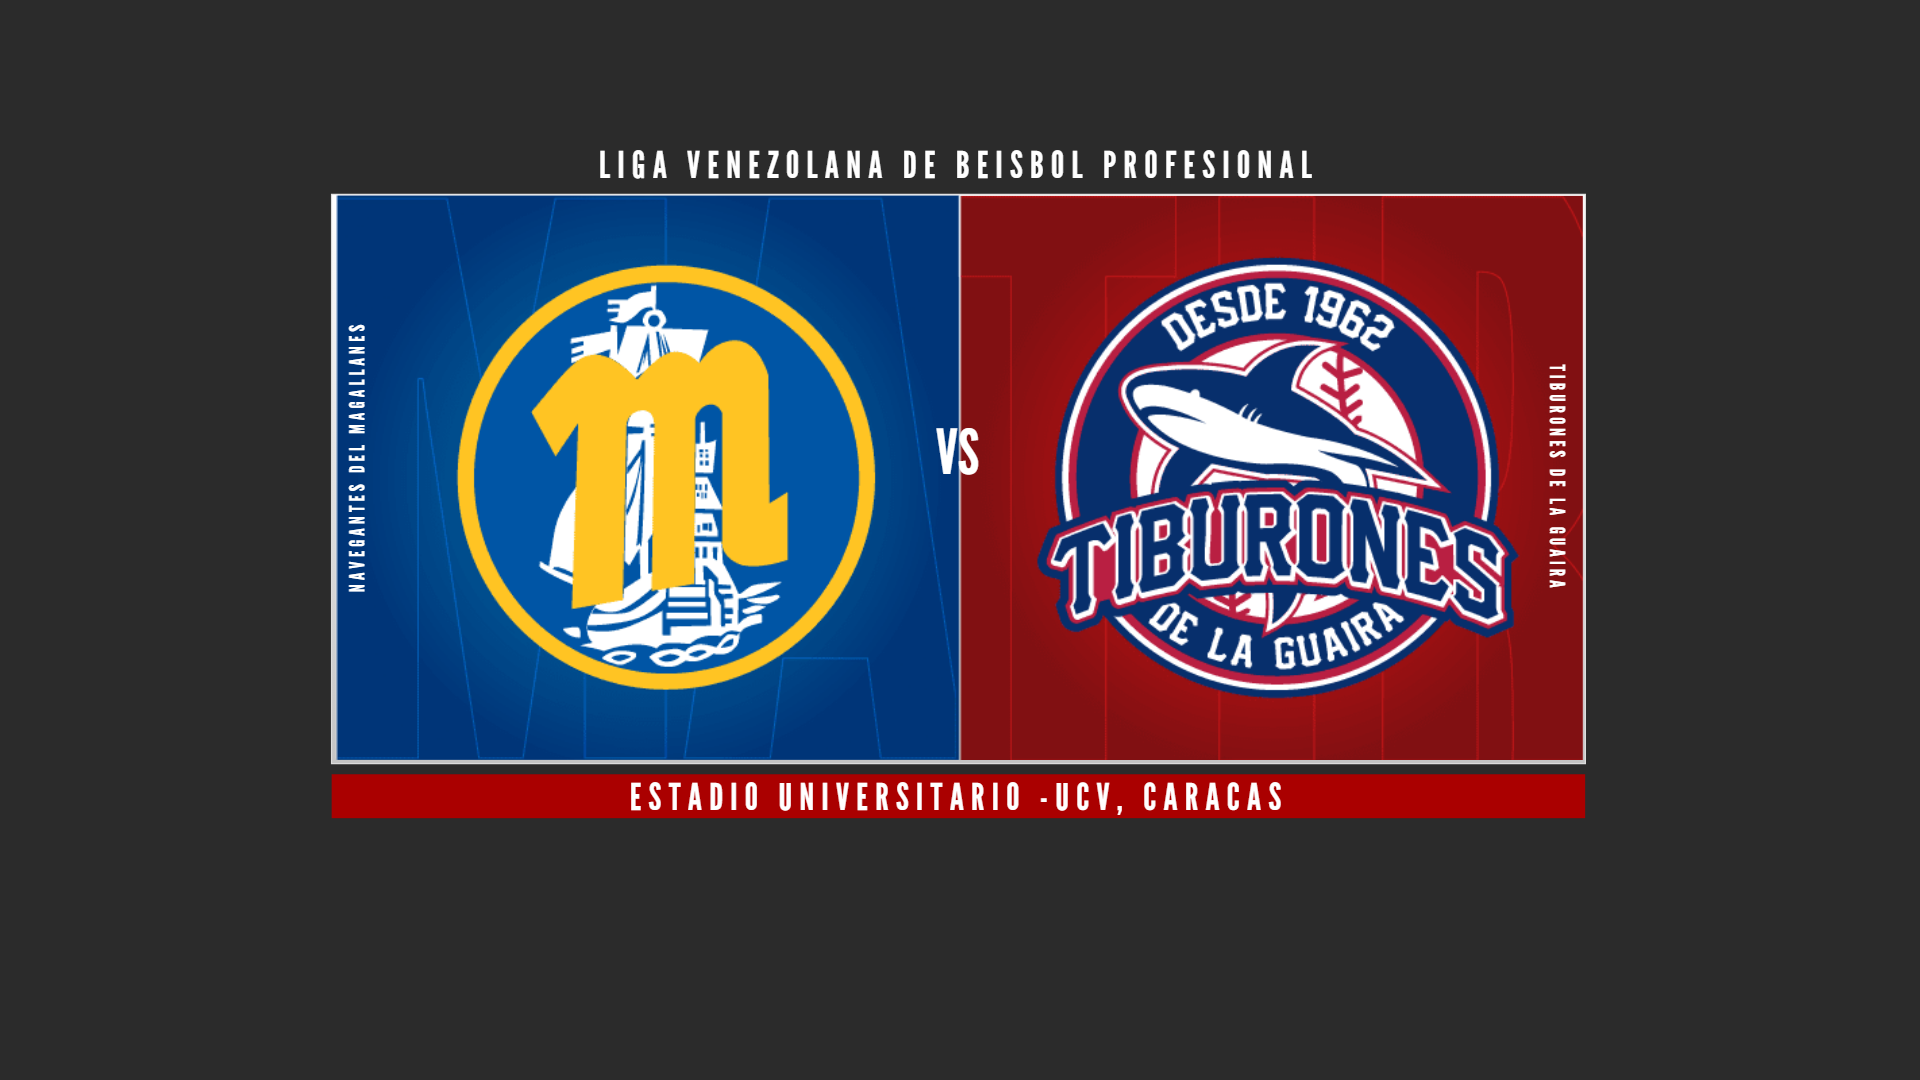
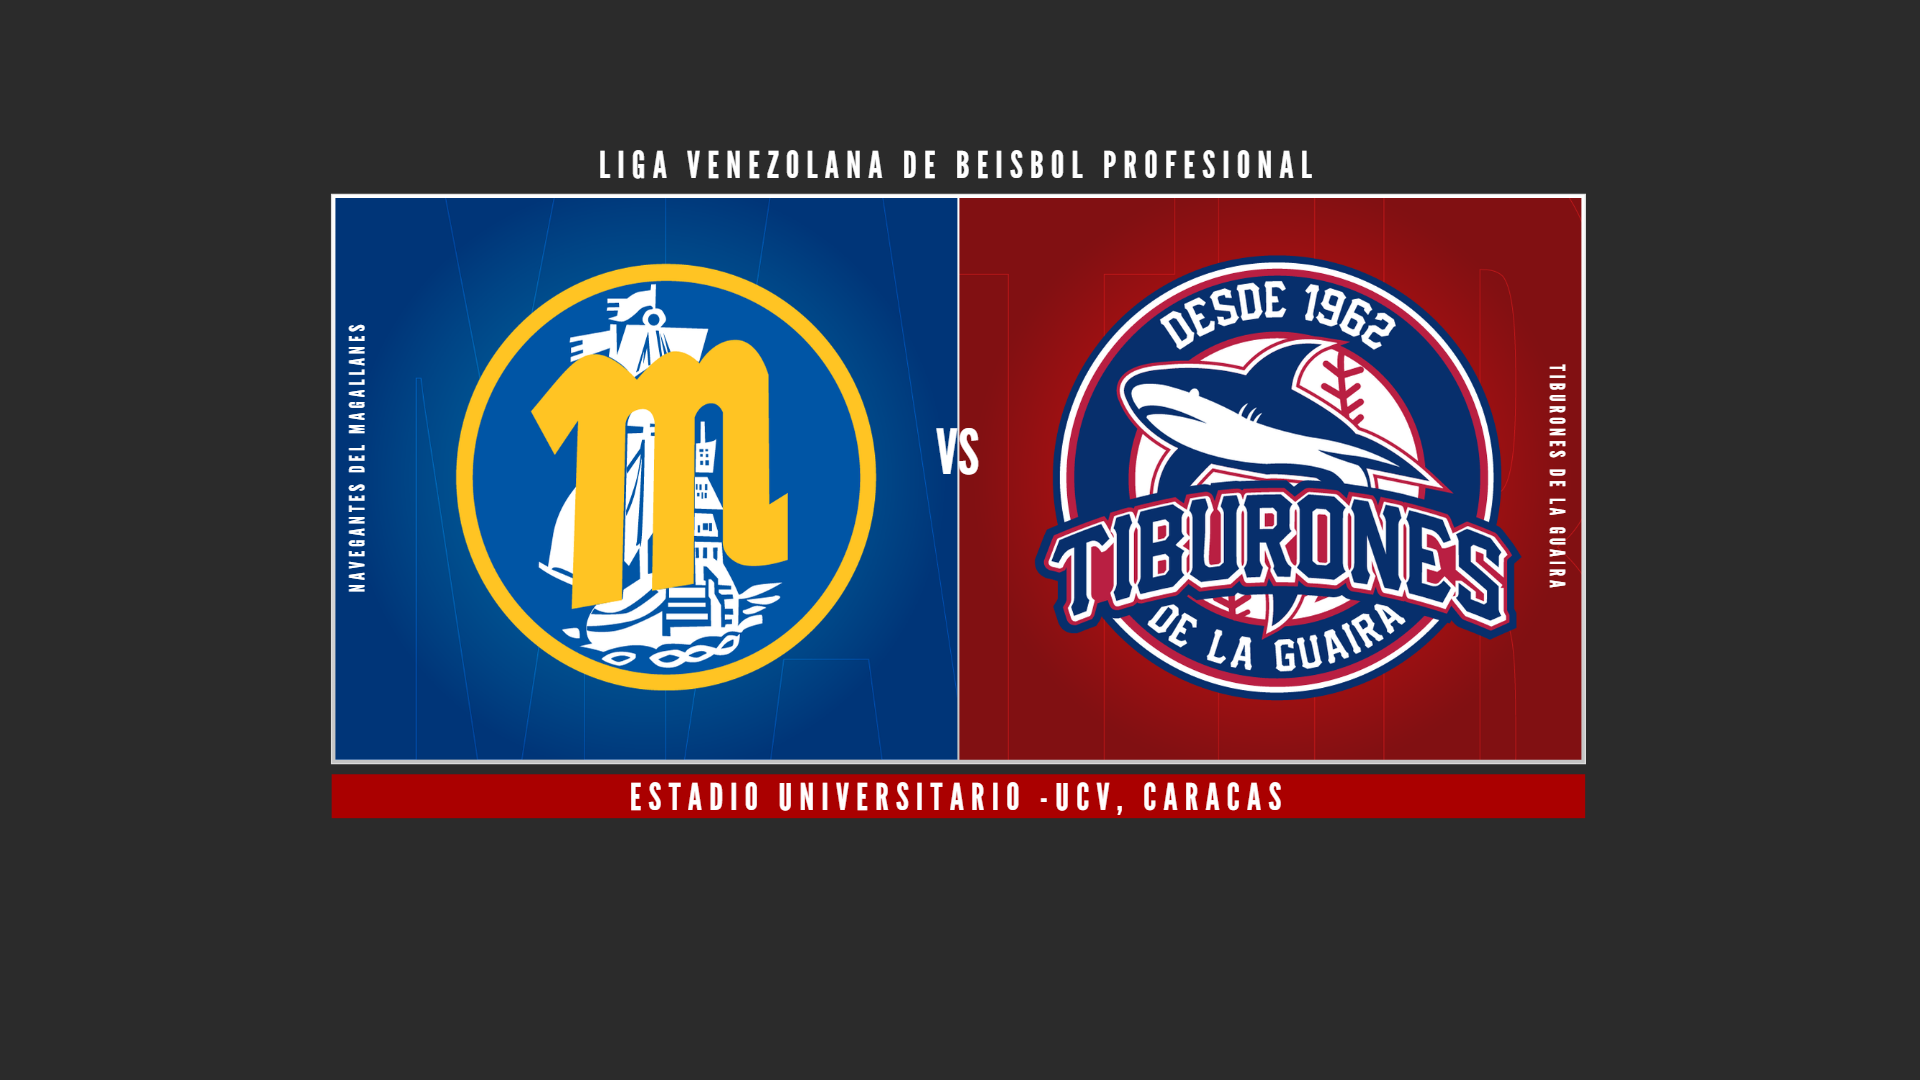
Placa de juego: los ocho escudos, normalizados
Llegaron los seis PNG que faltaban (y de nuevo Magallanes y Tiburones,
al doble de resolución): cada uno es la media placa entera, con el fondo
del equipo, la marca de agua y el escudo. Van en images/ con el nombre
del equipo en minúsculas, los de los logos de LVBP-Stats (aguilas.png,
bravos.png...), y cualquiera sirve de visita o de local. img_0 e img_1,
las rutas que manda LVBP-Stats con v0.0.17, quedan como copia de
Tiburones y Magallanes.

Los PNG traen el mismo encuadre pero cada uno con su borde de 1 a 5 px
transparente o a medias, y los mates de las dos mitades eran más grandes
que la imagen: el marco claro de la caja lo hacía ese borde, disparejo
(6 px a la izquierda, 2 arriba) y distinto con cada equipo.
mediaplaca.py deja el área opaca de cada uno, a 872 x 787, y mitades()
en prep.js achica los mates a la caja menos un marco de 4 px y una línea
de 2 px en el centro, como en el video del diseñador.

Probado con el runtime real: los 56 cruces con el marco medido igual en
todos, la entrada cuadro a cuadro, las rutas viejas, "" y una ruta que
no existe (la mitad queda vacía), y la salida suelta el layer a 2,5 s.

diff --git a/herramientas/prep.js b/herramientas/prep.js
@@ -11,7 +11,8 @@
 //        mkdir -p $PUB && for g in score lanzador; do git show HEAD:$g/data.json > $PUB/$g.json; done
 //   3. node herramientas/prep.js $EXPORTS $PUB .
 //   4. git diff, herramientas/lint.py y QA con el runtime real (CLAUDE.md).
-// Las fuentes, las imágenes y los index.html no los toca: se copian a mano la primera vez.
+// Las fuentes, las imágenes y los index.html no los toca: se copian a mano la primera vez. Los
+// escudos de la placa de juego llegan aparte y los prepara herramientas/mediaplaca.py.
 const fs = require('fs');
 const path = require('path');
 
@@ -609,6 +610,54 @@ if (hay('score final')) {
 // de ese día. El "VS" termina de asentarse en el 73; BASE Outlines tiene un keyframe en el 75 con
 // el mismo valor que el del 38, que no mueve nada.
 const ENTRADA_PLACA = 74;
+// Un punto de la capa en la pantalla, subiendo por los padres (transforms fijos, sin rotación).
+function aPantalla(d, capa, [x, y]) {
+    for (let l = capa; l; l = l.parent && d.layers.find(p => p.ind === l.parent)) {
+        const { p, a, s, r } = l.ks;
+        if (p.a || a.a || s.a || (r && (r.a || r.k))) throw new Error(`${l.nm}: transform animado`);
+        x = p.k[0] + (x - a.k[0]) * s.k[0] / 100;
+        y = p.k[1] + (y - a.k[1]) * s.k[1] / 100;
+    }
+    return [x, y];
+}
+// Las dos mitades. Cada escudo (media placa: fondo, marca de agua y escudo) tiene de mate un
+// rectángulo fijo (Shape Layer 1 y 2) más grande que la imagen, así que el borde lo hacía el PNG:
+// con el marco claro de la caja disparejo (de 1,5 a 5 px) y la línea del centro sólo donde el PNG
+// traía borde transparente, distinto con cada equipo. Los mates pasan a ser la caja menos un marco
+// parejo y la línea del centro, como en el video del diseñador. Los PNG van opacos y más grandes
+// que su mate (herramientas/mediaplaca.py).
+const MARCO_PLACA = 4, LINEA_PLACA = 2; // px de pantalla
+function mitades(d) {
+    const caja = layer(d, 'mask');
+    const g = caja.shapes.find(g => g.it.some(i => i.ty === 'fl'));
+    const sh = g.it.find(i => i.ty === 'sh').ks.k, tr = g.it.find(i => i.ty === 'tr');
+    if (tr.a.k.some(v => v) || tr.s.k.some(v => v !== 100)) throw new Error('placa: la caja no es la esperada');
+    const xs = sh.v.map(v => v[0] + tr.p.k[0]), ys = sh.v.map(v => v[1] + tr.p.k[1]);
+    const [x0, y0] = aPantalla(d, caja, [Math.min(...xs), Math.min(...ys)]);
+    const [x1, y1] = aPantalla(d, caja, [Math.max(...xs), Math.max(...ys)]);
+    const centro = (x0 + x1) / 2, arriba = y0 + MARCO_PLACA, abajo = y1 - MARCO_PLACA;
+    const zonas = {
+        escudovisita: [x0 + MARCO_PLACA, centro - LINEA_PLACA / 2],
+        escudolocal: [centro + LINEA_PLACA / 2, x1 - MARCO_PLACA]
+    };
+    for (const [cl, [izq, der]] of Object.entries(zonas)) {
+        const img = layer(d, '.' + cl), mate = d.layers[d.layers.indexOf(img) - 1];
+        const rc = mate.shapes[0].it.find(i => i.ty === 'rc'), t = mate.shapes[0].it.find(i => i.ty === 'tr');
+        const st = mate.shapes[0].it.find(i => i.ty === 'st');
+        if (!mate.td || img.tt !== 1 || mate.parent || img.parent || rc.p.k.some(v => v) || t.a.k.some(v => v)
+            || t.s.k.some(v => v !== 100) || (st && st.w.k) || aPantalla(d, mate, [0, 0]).some((v, i) => v !== mate.ks.p.k[i])) {
+            throw new Error(`placa: el mate de ${cl} no es el esperado`);
+        }
+        // La imagen donde termina de entrar: tiene que cubrir su mitad entera
+        const asset = d.assets.find(a => a.id === img.refId), sc = img.ks.s.k[0] / 100, [px, py] = img.ks.p.k.at(-1).s;
+        const ix = px - img.ks.a.k[0] * sc, iy = py - img.ks.a.k[1] * sc;
+        if (img.ks.s.a || ix > izq || ix + asset.w * sc < der || iy > arriba || iy + asset.h * sc < abajo) {
+            throw new Error(`placa: ${cl} no cubre su mitad`);
+        }
+        rc.s.k = [der - izq, abajo - arriba];
+        t.p.k = [(izq + der) / 2 - mate.ks.p.k[0], (arriba + abajo) / 2 - mate.ks.p.k[1]];
+    }
+}
 if (hay('placa de juego')) {
     const d = load(path.join(SRC, 'placa de juego/data.json'));
 
@@ -620,8 +669,13 @@ if (hay('placa de juego')) {
     };
     caja('NAVEGANTES DEL MAGALLANES 2');
     caja('TIBURONES DE LA GUAIRA');
-    rename(d, 'MAGALLANES.png', 'escudovisita');
-    rename(d, 'TIBURONES.png', 'escudolocal');
+    // Los escudos, en images/ con el nombre del equipo (los de LVBP-Stats): el export los trae como
+    // img_0/img_1. Esos dos quedan como copia, porque los manda el LVBP-Stats de v0.0.17.
+    for (const [nm, cl, archivo] of [['MAGALLANES.png', 'escudovisita', 'magallanes.png'], ['TIBURONES.png', 'escudolocal', 'tiburones.png']]) {
+        const { refId } = rename(d, nm, cl);
+        d.assets.find(a => a.id === refId).p = archivo;
+    }
+    mitades(d);
     rename(d, 'liga venezolana de beisbol profesional', 'liga');
     rename(d, 'estadio universitario -ucv, caracas', 'estadio');
     rename(d, 'vs', 'vs');

diff --git a/herramientas/mediaplaca.py b/herramientas/mediaplaca.py
@@ -1,0 +1,59 @@
+# Normaliza los escudos de placa_juego: un PNG por equipo con la media placa (fondo, marca de agua y
+# escudo), como los manda el diseñador (AGUILAS.png, BRAVOS.png...).
+# Uso: python3 herramientas/mediaplaca.py <carpeta con los PNG> placa_juego/images
+# Necesita ImageMagick 7 (magick).
+#
+# Llegan con el mismo encuadre pero cada uno con su borde: de 1 a 5 px transparentes o a medias (y
+# alguna raya suelta), y de 872 a 880 px de ancho. Ese borde se veía en la placa como un marco
+# disparejo. Queda el área opaca, llevada a ANCHO x ALTO (recorta lo que sobre, centrado) y sin
+# alfa. El marco y la línea del centro los ponen los mates de la placa (mitades() en prep.js).
+import os, shutil, subprocess, sys
+
+ANCHO, ALTO = 872, 787  # la proporción de la caja de la imagen (463 x 418), a la resolución que llegan
+UMBRAL = 250            # alfa mínimo de un borde para que cuente como opaco
+EQUIPOS = ['aguilas', 'bravos', 'cardenales', 'caribes', 'leones', 'magallanes', 'tiburones', 'tigres']
+# Los nombres del export, que manda el LVBP-Stats de v0.0.17: quedan como copia
+COPIAS = {'img_0.png': 'tiburones', 'img_1.png': 'magallanes'}
+
+
+def area_opaca(ruta):
+    w, h = map(int, subprocess.check_output(['magick', 'identify', '-format', '%w %h', ruta]).split())
+    a = subprocess.check_output(['magick', ruta, '-alpha', 'extract', '-depth', '8', 'gray:-'])
+    fila = lambda y, x0, x1: min(a[y * w + x0:y * w + x1])
+    columna = lambda x, y0, y1: min(a[y * w + x] for y in range(y0, y1))
+    l, t, r, b = 0, 0, w, h
+    while True:
+        antes = (l, t, r, b)
+        if fila(t, l, r) < UMBRAL: t += 1
+        if fila(b - 1, l, r) < UMBRAL: b -= 1
+        if columna(l, t, b) < UMBRAL: l += 1
+        if columna(r - 1, t, b) < UMBRAL: r -= 1
+        if (l, t, r, b) == antes: break
+    if r - l < ANCHO * 0.95 or b - t < ALTO * 0.95:
+        raise SystemExit(f'{ruta}: el área opaca es {r - l}x{b - t}, mucho menos que {ANCHO}x{ALTO}')
+    adentro = min(min(a[y * w + l:y * w + r]) for y in range(t, b))
+    if adentro < 255:
+        raise SystemExit(f'{ruta}: tiene transparencias adentro del área opaca')
+    return w, h, l, t, r, b
+
+
+origen, destino = sys.argv[1], sys.argv[2]
+hechos = {}
+for archivo in sorted(os.listdir(origen)):
+    nombre, ext = os.path.splitext(archivo)
+    if ext.lower() != '.png' or nombre.lower() not in EQUIPOS:
+        continue
+    w, h, l, t, r, b = area_opaca(os.path.join(origen, archivo))
+    salida = os.path.join(destino, nombre.lower() + '.png')
+    subprocess.check_call(['magick', os.path.join(origen, archivo), '-crop', f'{r - l}x{b - t}+{l}+{t}', '+repage',
+                           '-filter', 'Lanczos', '-resize', f'{ANCHO}x{ALTO}^', '-gravity', 'center',
+                           '-extent', f'{ANCHO}x{ALTO}', '-alpha', 'off', '-strip', 'PNG24:' + salida])
+    hechos[nombre.lower()] = salida
+    print(f'{archivo}: {w}x{h}, borde L{l} T{t} R{w - r} B{h - b} -> {salida}')
+for copia, equipo in COPIAS.items():
+    if equipo in hechos:
+        shutil.copyfile(hechos[equipo], os.path.join(destino, copia))
+        print(f'{copia} = {equipo}')
+faltan = [e for e in EQUIPOS if e not in hechos]
+if faltan:
+    print('Faltan:', ', '.join(faltan))

diff --git a/CLAUDE.md b/CLAUDE.md
@@ -20,16 +20,16 @@ Las keys del UPDATE de cada uno están en su `data.md`.
 | `parcial/` | Score de fin de inning: escudos, C H E de los dos equipos, inning con su flecha, los tres bateadores del próximo inning y la publicidad (`publicidad`, una imagen). Abajo al centro, a la izquierda del score | stage `play` pause (0–32) | `salida`: la entrada al revés (1,1 s) |
 | `prevenido/` | El bateador en el círculo: una fila (nombre y valor) y la publicidad a la derecha (`publicidad`, una imagen). El mismo armado que `3enlinea`, en el mismo lugar | stage `play` pause (0–48) | `salida`: la entrada al revés (1,6 s) |
 | `final/` | Score final (line score): escudos, carreras por inning (la columna 9 es la del último inning), C H E y, abajo, ganador, perdedor y MVP; esa barra se apaga con `barra_opacidad` para usarlo a mitad de juego. Abajo al centro, en el lugar de `parcial` | stage `play` pause (0–33) | `salida`: la entrada al revés (1,1 s) |
-| `placa_juego/` | JUEGO DE HOY, **versión preliminar**: la placa de pantalla completa antes del juego, con los dos escudos y nombres, la liga arriba y el estadio abajo. Trae MAGALLANES y TIBURONES en el diseño (el juego del 2026-10-13); los escudos son imágenes (`escudovisita`/`escudolocal`), cada una la mitad entera de la caja (fondo del equipo, marca de agua y escudo, 465 × 419), y en `images/` sólo están esos dos: los otros seis los tiene que mandar el diseñador | stage `play` pause (0–74) | `salida`: la entrada al revés (2,5 s) |
+| `placa_juego/` | JUEGO DE HOY, **versión preliminar**: la placa de pantalla completa antes del juego, con los dos escudos y nombres, la liga arriba y el estadio abajo. Trae MAGALLANES y TIBURONES en el diseño (el juego del 2026-10-13); los escudos son imágenes (`escudovisita`/`escudolocal`), cada una la mitad entera de la caja (fondo del equipo, marca de agua y escudo, 465 × 419), y en `images/` están los ocho como `<equipo>.png` (`aguilas`, `bravos`, `cardenales`, `caribes`, `leones`, `magallanes`, `tiburones`, `tigres`); `img_1`/`img_0`, las rutas de v0.0.17, quedan como copia de Magallanes y Tiburones | stage `play` pause (0–74) | `salida`: la entrada al revés (2,5 s) |
 
 Cómo se ve cada uno, en [capturas/](capturas/): `<gráfico>.png` es la pantalla completa con data de
 ejemplo (muestra dónde cae en el cuadro) y `<gráfico>_equipos.png`, todos los equipos (en `score`,
 los 56 cruces `visita_vs_local`, igual que en `parcial` y `final`; `3enlinea` y `prevenido` no tienen equipos: `<gráfico>_publicidad.png` muestra la
 publicidad vacía, con logos de distintas proporciones y con una ruta que no carga; `placa_juego`
-tiene los dos del diseño, y sólo la pantalla completa). Son de v0.0.7
+muestra los ocho de visita y de local, en cruces de a uno). Son de v0.0.7
 (las de `ofensiva`, de v0.0.9; las de `defensiva_lateral` y `3enlinea`, del 2026-10-06; las de
-`parcial` y `prevenido`, del 2026-10-07; las de `final`, del 2026-10-10; la de `placa_juego`, del
-2026-10-13): si un
+`parcial` y `prevenido`, del 2026-10-07; las de `final`, del 2026-10-10; las de `placa_juego`, del
+2026-10-14): si un
 gráfico cambia, hay que regenerarlas. No entran al zip (`.gitattributes`).
 
 Textos: salen en mayúsculas aunque lleguen en minúsculas (ver *Mayúsculas* en Convenciones del
@@ -117,9 +117,17 @@ Cada export de AE trae los nombres crudos y hay que repetir la preparación. Bus
   `CHE` a `innings`/`carrerashitserrores`. El rótulo `juegoperdido` llegó `JP:H:`: la `H:` partía
   a una segunda línea debajo de la barra, queda `JP:`. En `placa_juego` (el zip es `placa de
   juego`), todo llega sin clase: `NAVEGANTES DEL MAGALLANES 2`/`TIBURONES DE LA GUAIRA` a
-  `equipovisita`/`equipolocal`, `MAGALLANES.png`/`TIBURONES.png` a `escudovisita`/`escudolocal`,
-  `juego de hoy` a `titulo`, y la liga, el estadio y el `vs` a `liga`/`estadio`/`vs`. El logo llega
-  en dos capas: queda una sola (ver *Capas ocultas*).
+  `equipovisita`/`equipolocal`, `MAGALLANES.png`/`TIBURONES.png` a `escudovisita`/`escudolocal`
+  (con los assets de `img_1`/`img_0` a `magallanes.png`/`tiburones.png`), `juego de hoy` a
+  `titulo`, y la liga, el estadio y el `vs` a `liga`/`estadio`/`vs`. El logo llega en dos capas:
+  queda una sola (ver *Capas ocultas*).
+- **Escudos de la placa:** el diseñador los manda aparte, un PNG por equipo (`AGUILAS.png`…, ~880
+  × 795), con el mismo encuadre pero cada uno con su borde de 1 a 5 px transparente o a medias, y
+  alguna raya suelta. Los mates de las dos mitades (`Shape Layer 1` y `2`) llegaban más grandes que
+  la imagen, así que ese borde hacía de marco: disparejo (de 1,5 a 6 px) y distinto con cada equipo.
+  `herramientas/mediaplaca.py` deja el área opaca de cada uno, a 872 × 787 y sin alfa (y las copias
+  `img_0`/`img_1`), y `mitades()` en `prep.js` achica los mates a la caja menos un marco de 4 px y
+  una línea de 2 px en el centro, como en el video del diseñador. Se ve igual con todos los equipos.
 - **Colores:** en `lanzador` el export trae `BASE BLANCA` y `BASE ROJA` con el mismo degradado
   naranja. La tabla va blanca y roja para todos los equipos (confirmado por el diseñador): se les
   copia el degradado de la cortina de entrada (`Shape Layer 2` el blanco, `Shape Layer 1` el rojo).
@@ -198,6 +206,7 @@ en la raíz del repo (`python3 -m http.server 5510`) y el Playwright del Lottie 
 | Script | Para qué |
 |---|---|
 | `prep.js` | La receta de arriba, ejecutable: prepara los exports del diseñador. Instrucciones en su encabezado |
+| `mediaplaca.py` | Los escudos de `placa_juego` (ver *Escudos de la placa*): `python3 herramientas/mediaplaca.py <carpeta con los PNG> placa_juego/images`. Necesita ImageMagick |
 | `shot.mjs` | Frames de un gráfico con data: `node herramientas/shot.mjs <url> <salida> '<json>' <frames> [x,y,w,h]`; `JSON=<archivo>` sirve otro data.json para comparar versiones |
 | `matrix.mjs` | Muchas variantes de data en una carga (todos los equipos…), con reporte de textos y consola |
 | `onair.mjs` | Un flujo al aire (update, play, next, stop) con capturas en cada paso |

diff --git a/placa_juego/data.md b/placa_juego/data.md
@@ -23,10 +23,23 @@ so with nothing sent it goes on air as designed. The final version may change th
 
 **Teams:** `equipovisita` / `equipolocal` are the names written vertically along the left and right
 edges (box text: the eight league names keep the design size). The crests are images
-(`escudovisita` / `escudolocal`, 463 × 418 and 465 × 419 px), and each one is the whole half of the
-card: the team's color background, the watermark letters and the crest. Only Magallanes and
-Tiburones are in `images/`: another team needs its own half-card PNG from the designer, at that
-size, copied there first.
+(`escudovisita` / `escudolocal`), and each one is the whole half of the card: the team's color
+background, the watermark letters and the crest. The eight teams are in `images/`, named after the
+team in lowercase, and any of them works on either side:
+
+| Team | Path |
+|------|------|
+| Águilas del Zulia | `images/aguilas.png` |
+| Bravos de Margarita | `images/bravos.png` |
+| Cardenales de Lara | `images/cardenales.png` |
+| Caribes de Anzoátegui | `images/caribes.png` |
+| Leones del Caracas | `images/leones.png` |
+| Navegantes del Magallanes | `images/magallanes.png` |
+| Tiburones de La Guaira | `images/tiburones.png` |
+| Tigres de Aragua | `images/tigres.png` |
+
+`images/img_1.png` (Magallanes) and `images/img_0.png` (Tiburones), the paths of v0.0.17, still
+work: they are copies.
 
 **Placement:** centered, almost the full screen (x 331–1585, y 143–820). It is a standalone card:
 nothing else goes on air with it.
@@ -38,8 +51,8 @@ nothing else goes on air with it.
   "estadio": "ESTADIO UNIVERSITARIO -UCV, CARACAS",
   "liga": "LIGA VENEZOLANA DE BEISBOL PROFESIONAL",
   "titulo": "JUEGO DE HOY",
-  "escudovisita": "images/img_1.png",
-  "escudolocal": "images/img_0.png"
+  "escudovisita": "images/magallanes.png",
+  "escudolocal": "images/tiburones.png"
 }
 ```
 
@@ -71,8 +84,8 @@ text in the width of the card; longer overflows it.
 
 | Class | Ref ID | Size | Default |
 |-------|--------|------|---------|
-| `escudovisita` | `image_1` | 463 × 418 px | `images/img_1.png` (Magallanes) |
-| `escudolocal` | `image_0` | 465 × 419 px | `images/img_0.png` (Tiburones) |
+| `escudovisita` | `image_1` | 463 × 418 px | `images/magallanes.png` |
+| `escudolocal` | `image_0` | 465 × 419 px | `images/tiburones.png` |
 | `logomeridiano` | `image_2` | 2000 × 1282 px | `images/img_2.png` (Meridiano's logo, only during the entry, frames 31–37; no need to send it) |
 
 ## Markers
